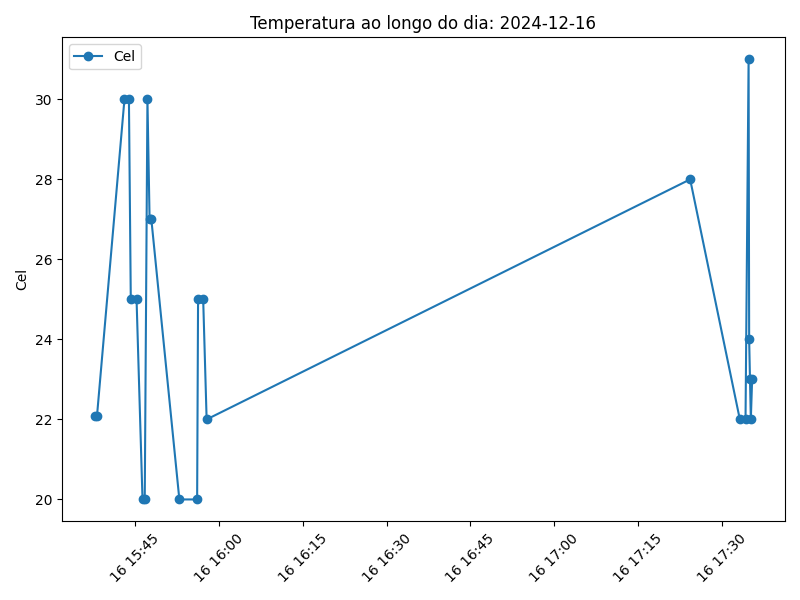
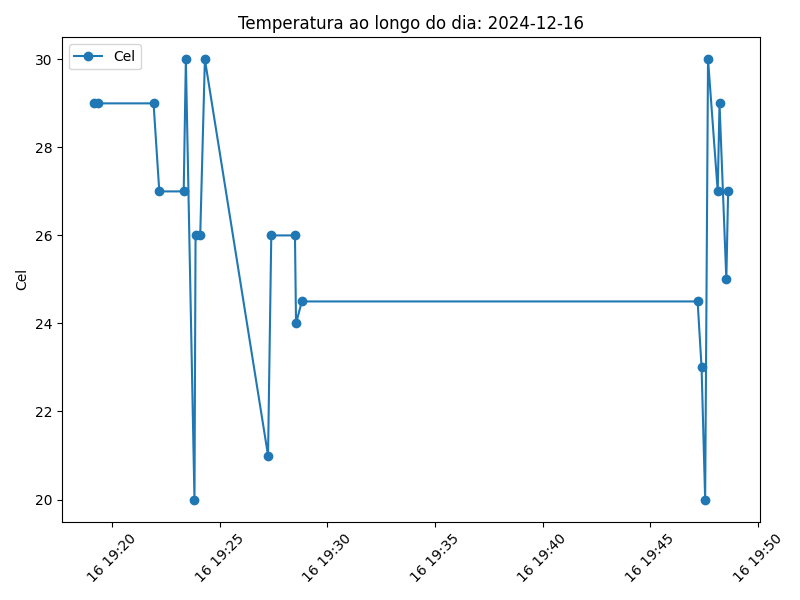
Update corrigindo o problema da atualização

diff --git a/teste/templates/index.html b/teste/templates/index.html
@@ -15,7 +15,19 @@
             const color = event.data === "true" ? "green" : "red";
             document.getElementById("status-indicator").style.backgroundColor = color;
             document.getElementById("status-text").innerText = `Status: ${status}`;
+            // Atualiza o gráfico sempre que a mensagem de status for recebida
+            atualizarGrafico(); // Chama a função que faz o update da imagem do gráfico
         };
+
+        // Função para atualizar a imagem do gráfico
+        function atualizarGrafico() {
+            // Faz uma requisição AJAX para atualizar o gráfico
+            $.get("/update_graph", function() {
+                // Atualiza a imagem do gráfico com um parâmetro único para evitar cache
+                $('#grafico').attr('src', "{{ url_for('static', filename='graph.png') }}?" + new Date().getTime());
+            });
+        }
+
     </script>
     <style>
         #status-indicator {
@@ -45,13 +57,5 @@
         <input type="number" step="0.01" id="valor" name="valor" required>
         <button type="submit">Atualizar</button>
     </form>
-
-    <script>
-        // Função para atualizar a imagem do gráfico a cada 5 segundos
-        setInterval(function() {
-            // Adiciona um parâmetro único à URL para evitar cache do navegador
-            $('#grafico').attr('src', "{{ url_for('static', filename='graph.png') }}?" + new Date().getTime());
-        }, 1000); // Atualiza a cada 5 segundos
-    </script>
 </body>
 </html>

diff --git a/teste/app.py b/teste/app.py
@@ -75,7 +75,7 @@ def on_message(client, userdata, msg):
                 flag = False
             print("Mandei para o EMQX")
             client.publish(topic, "O esp32 tem que receber")
-            gerar_grafico()
+            # gerar_grafico()
         else:
             client.publish(TOPIC_PUBLISH, "Temperatura não atualizada")
             print(f"Mensagem publicada no tópico {TOPIC_PUBLISH}: Temperatura não atualizada")
@@ -119,14 +119,17 @@ def index():
     # Gera o gráfico ao carregar a página
     gerar_grafico()
     return render_template("index.html", status="Ligado" if flag else "Desligado")
+    
+@app.route("/update_graph")
+def update_graph():
+    gerar_grafico()  # Regenera o gráfico sempre que esta rota for acessada
+    return redirect(url_for('static', filename='graph.png'))
 
 @app.route('/events')
 def events():
-    def generate():
-        while True:
-            yield f"data: {str(flag).lower()}\n\n"  # Envia o valor de flag (true ou false)
+    string = f"data: {str(flag).lower()}\n\n"  # Envia o valor de flag (true ou false)
     
-    return Response(generate(), content_type='text/event-stream')
+    return Response(string, content_type='text/event-stream')
 
 # Inicia o MQTT em uma thread
 threading.Thread(target=iniciar_mqtt, daemon=True).start()
